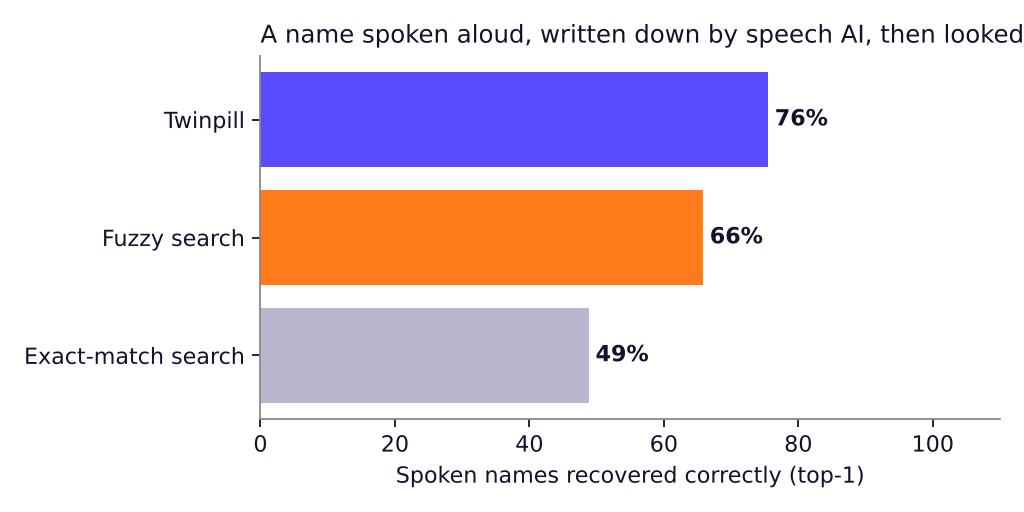
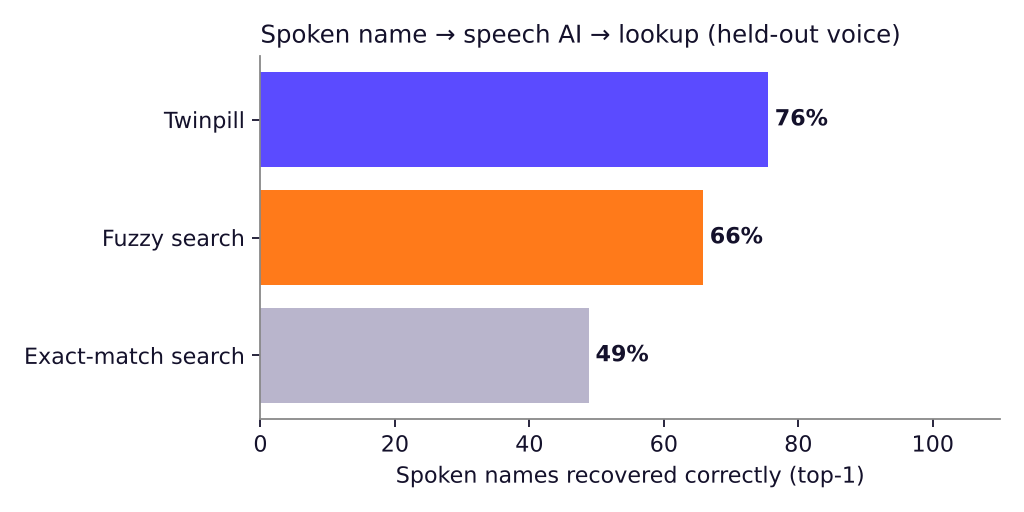
Refresh pipeline outputs, finale deck, article fix in questions

Changed region(s): [[0.25, 0.0312, 1.0, 0.0938]]

diff --git a/js/app.js b/js/app.js
@@ -104,7 +104,8 @@ async function runQuery(text) {
   if (twin) {
     const dq = decidingQuestion([head, ...unrel].slice(0, 4).length > 1 ? [head, ...unrel].slice(0, 4) : shown);
     if (dq) {
-      let qtext = dq.kind === "form" ? t("q_form").replace("{a}", formLabel(dq.options[0].label)).replace("{b}", formLabel(dq.options[1].label))
+      const art = (x) => (lang === "en" ? (/^[aeiou]/i.test(x) ? "an " : "a ") + x : x);
+      let qtext = dq.kind === "form" ? t("q_form").replace("{a}", art(formLabel(dq.options[0].label))).replace("{b}", art(formLabel(dq.options[1].label)))
         : dq.kind === "strength" ? t("q_strength") : dq.kind === "suffix" ? t("q_suffix") : t("q_company");
       html += `<div class="question" id="dq"><div class="label">${esc(t("ask"))}</div><h3>${esc(qtext)}</h3>
         <div class="muted small" style="color:#d9d6f2;margin-bottom:10px">${esc(t("pick"))}</div>
@@ -285,7 +286,7 @@ function renderHow() {
     <ol class="steps">
       <li><b>Clean the catalogue.</b> 246,068 active Indian listings → 242,924 products after removing duplicates; brand name, strength, form and ingredients parsed from each.</li>
       <li><b>Find the twins.</b> Products are grouped by the name a person would say. Any two products under one name with no shared ingredient form a twin pair (different companies or one company's suffix variants).</li>
-      <li><b>Know what each medicine is for.</b> 1,643 ingredients mapped to WHO ATC classes (98.9% of products) and rewritten in plain English and Tamil (“fits (epilepsy)”, not “antiepileptic”).</li>
+      <li><b>Know what each medicine is for.</b> 1,643 ingredients mapped to WHO ATC classes (99.0% of products) and rewritten in plain English and Tamil (“fits (epilepsy)”, not “antiepileptic”).</li>
       <li><b>Score the danger.</b> Different purpose, different body system, a high-alert medicine, the same form and route, and whether the printed number or the company is the only clue.</li>
       <li><b>Catch near-names.</b> An Indian-English sound key plus a learned confusability model (trained on ISMP's published confused-name pairs and on speech-AI mishearings) finds names a listener or a voice app could land on instead.</li>
       <li><b>Ask the one question.</b> For each name the app picks the single question that splits the unrelated meanings: the form first, then the printed number, then the company.</li>

diff --git a/js/i18n.js b/js/i18n.js
@@ -15,7 +15,7 @@ export const T = {
     used_for: "Used for", contains: "Contains", made_by: "Made by", forms: "Comes as", strengths: "Strengths",
     products: (n) => `${n} product${n === 1 ? "" : "s"}`, and_more: (n) => `+${n} more`,
     ask: "Ask this one question first",
-    q_form: "Is it a {a} or a {b}?", q_strength: "What number is printed right after the name?",
+    q_form: "Is it {a} or {b}?", q_strength: "What number is printed right after the name?",
     q_company: "Which company name is printed on the strip?",
     q_suffix: "Which letters are printed right after the name? (— means none)",
     pick: "Tap the answer that matches the strip:",
